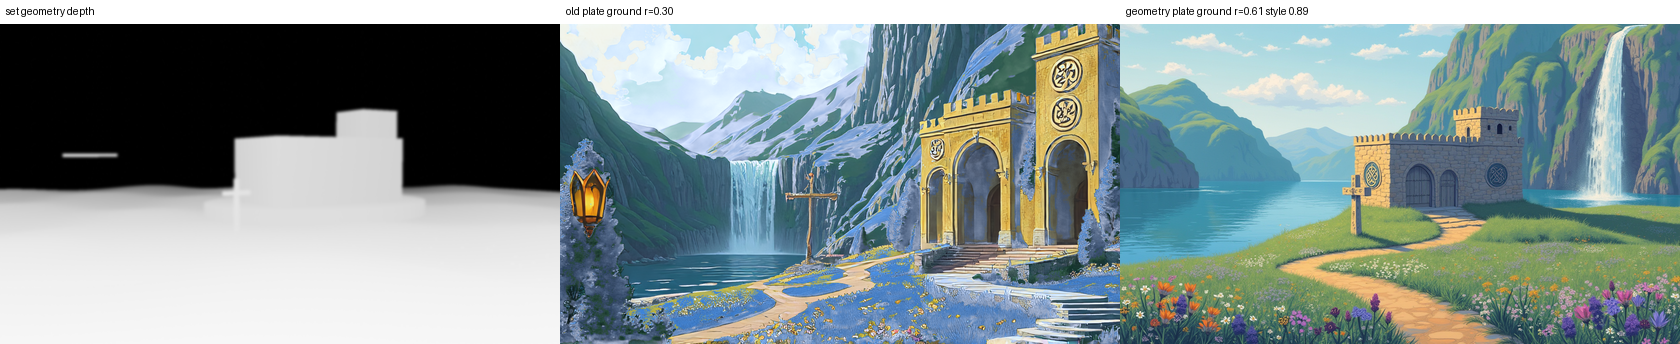
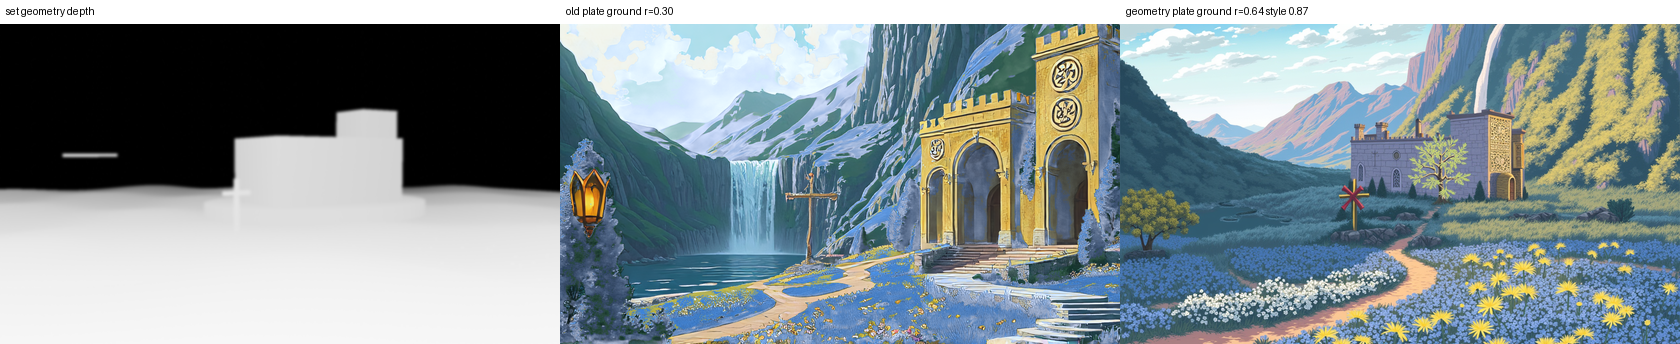
media export 20261008-2003

Changed region(s): [[0.65, 0.0581, 1.0, 1.0]]

diff --git a/IMPROVE_STATUS.md b/IMPROVE_STATUS.md
@@ -1,15 +1,15 @@
 # Improvement status
 
-Updated 2026-10-08 19:49. Cycle 506.
+Updated 2026-10-08 20:02. Cycle 507.
 
 ## GPU duty cycle (last 24 h, 1-min samples)
 
-- card working (>=20%) **29%** of the last 24 h (421 busy minutes; 3 minutes unsampled, counted idle); mean utilisation of sampled minutes 28%
+- card working (>=20%) **29%** of the last 24 h (424 busy minutes; 3 minutes unsampled, counted idle); mean utilisation of sampled minutes 28%
 
 ## Adopted (what the masters are rendered with)
 
 - walk: RW_STRIDE=0.6, RW_DROP=0.062, RW_ARM_OUT=10 (defaults v1)
-- scene: SET_PLATE=/workspace/text-to-video/series/tir-na-nog-legend/sets/tir_na_nog/master_geo.png, SET_RELIEF_NPY=/workspace/loopwork/improve/plate_geo_depth.npy, SET_RELIEF_GAIN=0.8, SET_PLATE_WINTER=/workspace/text-to-video/series/tir-na-nog-legend/sets/tir_na_nog/master_winter_geo.png, SET_RELIEF_NPY_WINTER=/workspace/loopwork/improve/plate_winter_geo_depth.npy (plate v8)
+- scene: SET_PLATE=/workspace/text-to-video/series/tir-na-nog-legend/sets/tir_na_nog/master_geo.png, SET_RELIEF_NPY=/workspace/loopwork/improve/plate_geo_depth.npy, SET_RELIEF_GAIN=0.8, SET_PLATE_WINTER=/workspace/text-to-video/series/tir-na-nog-legend/sets/tir_na_nog/master_winter_geo.png, SET_RELIEF_NPY_WINTER=/workspace/loopwork/improve/plate_winter_geo_depth.npy (plate v9)
 - cast oisin: st_chibi3_oisin_m23845 (hand compactness 0.31, lower is better)
 - cast niamh: st_chibi3_niamh_m20705_tex (hand compactness 0.20, lower is better)
 - masters: nine_waterfalls_rigify_cast4_web.mp4, nine_waterfalls_loop_97c79e_web.mp4, nine_waterfalls_loop_419a38_web.mp4
@@ -31,6 +31,7 @@ Updated 2026-10-08 19:49. Cycle 506.
 - plate_flux_r2: queued @ g1
 - plate_flux_winter_r0: queued @ g2
 - plate_flux_winter_r1: queued @ g2
+- plate_flux_winter_r2: queued @ g2
 - scene_fit: queued @ st_chibi3_oisin_m23845|st_chibi3_niamh_m20705_tex|p7
 - walk_RW_ARM_OUT: queued @ d1|st_chibi3_oisin_m22223|st_chibi3_niamh_m20705_tex|p2|s39c2a7
 - walk_RW_DROP: queued @ d1|st_chibi3_oisin_m22223|st_chibi3_niamh_m20705_tex|p2|s39c2a7
@@ -50,7 +51,6 @@ Updated 2026-10-08 19:49. Cycle 506.
 
 ## Last 12 experiments
 
-- 2026-10-08 16:10 cast: niamh best new candidate st_chibi3_niamh_m20705_tex hands 0.20, adopted st_chibi3_niamh_m20705_tex (0.20) stands
 - 2026-10-08 16:56 cast: oisin best new candidate st_chibi3_oisin_m23845 hands 0.31, adopted st_chibi3_oisin_m23845 (0.31) stands
 - 2026-10-08 16:56 cast: niamh best new candidate st_chibi3_niamh_m20705_tex hands 0.20, adopted st_chibi3_niamh_m20705_tex (0.20) stands
 - 2026-10-08 17:43 cast: oisin best new candidate st_chibi3_oisin_m23845 hands 0.31, adopted st_chibi3_oisin_m23845 (0.31) stands
@@ -62,3 +62,4 @@ Updated 2026-10-08 19:49. Cycle 506.
 - 2026-10-08 19:24 cast_face: st_chibi3_niamh_m20705 face rig built, talk probe 40 frames
 - 2026-10-08 19:36 plate_geo winter round 10: 9 plates, best r10_winter_cn0.7_flux_d90.png agreement r=0.608 style 0.892 vs old plate r=0.298 -> ADOPTED as master_winter_geo.png (plate v8)
 - 2026-10-08 19:49 plate_geo winter round 11: 9 plates (3 failed the style gate >=0.85), best agreement r=0.634 vs old plate r=0.298, adopted r=0.634 stands
+- 2026-10-08 20:02 plate_geo winter round 12: 9 plates, best r12_winter_cn0.7_flux_d75.png agreement r=0.641 style 0.868 vs old plate r=0.298 -> ADOPTED as master_winter_geo.png (plate v9)

diff --git a/IMPROVE_LEDGER.md b/IMPROVE_LEDGER.md
@@ -588,3 +588,4 @@ One line per experiment the GPU loop ran, newest last.
 - 2026-10-08 19:24 cast_face: st_chibi3_niamh_m20705 face rig built, talk probe 40 frames
 - 2026-10-08 19:36 plate_geo winter round 10: 9 plates, best r10_winter_cn0.7_flux_d90.png agreement r=0.608 style 0.892 vs old plate r=0.298 -> ADOPTED as master_winter_geo.png (plate v8)
 - 2026-10-08 19:49 plate_geo winter round 11: 9 plates (3 failed the style gate >=0.85), best agreement r=0.634 vs old plate r=0.298, adopted r=0.634 stands
+- 2026-10-08 20:02 plate_geo winter round 12: 9 plates, best r12_winter_cn0.7_flux_d75.png agreement r=0.641 style 0.868 vs old plate r=0.298 -> ADOPTED as master_winter_geo.png (plate v9)
